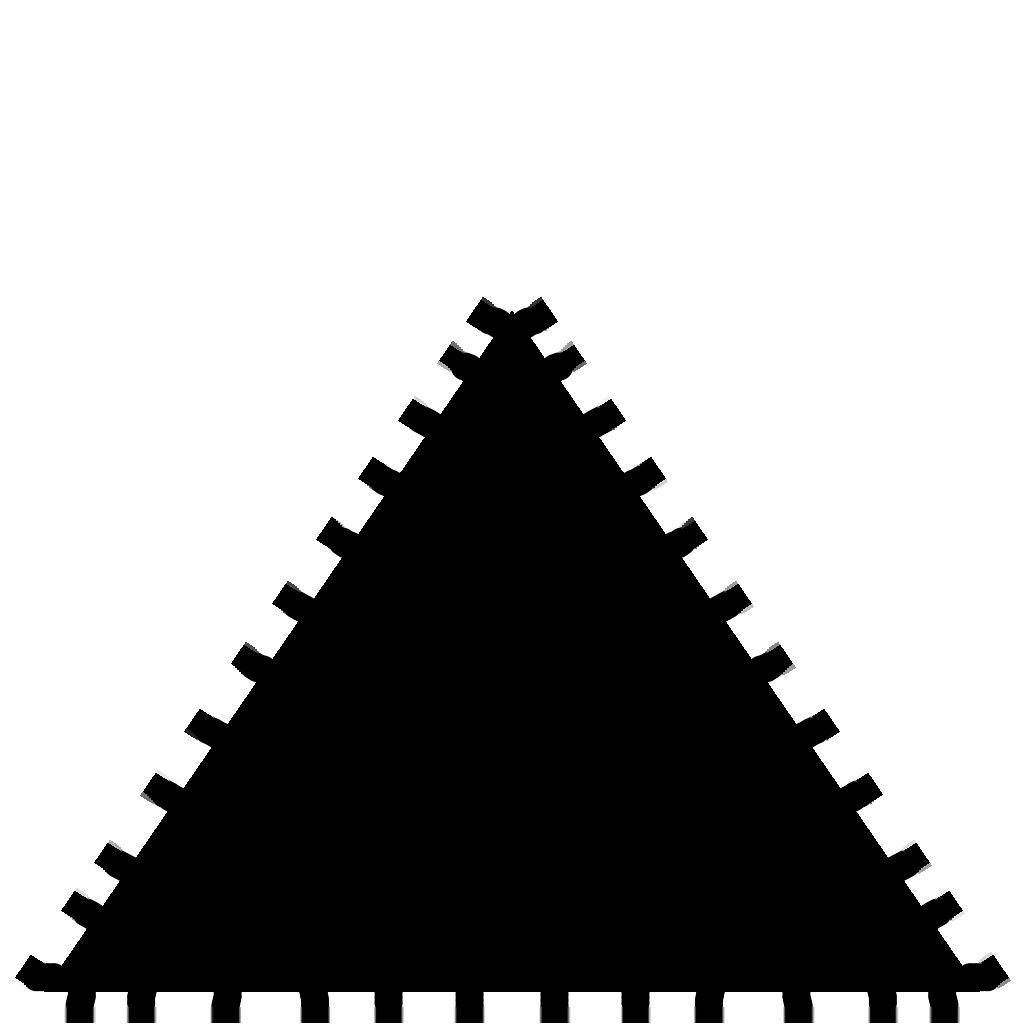
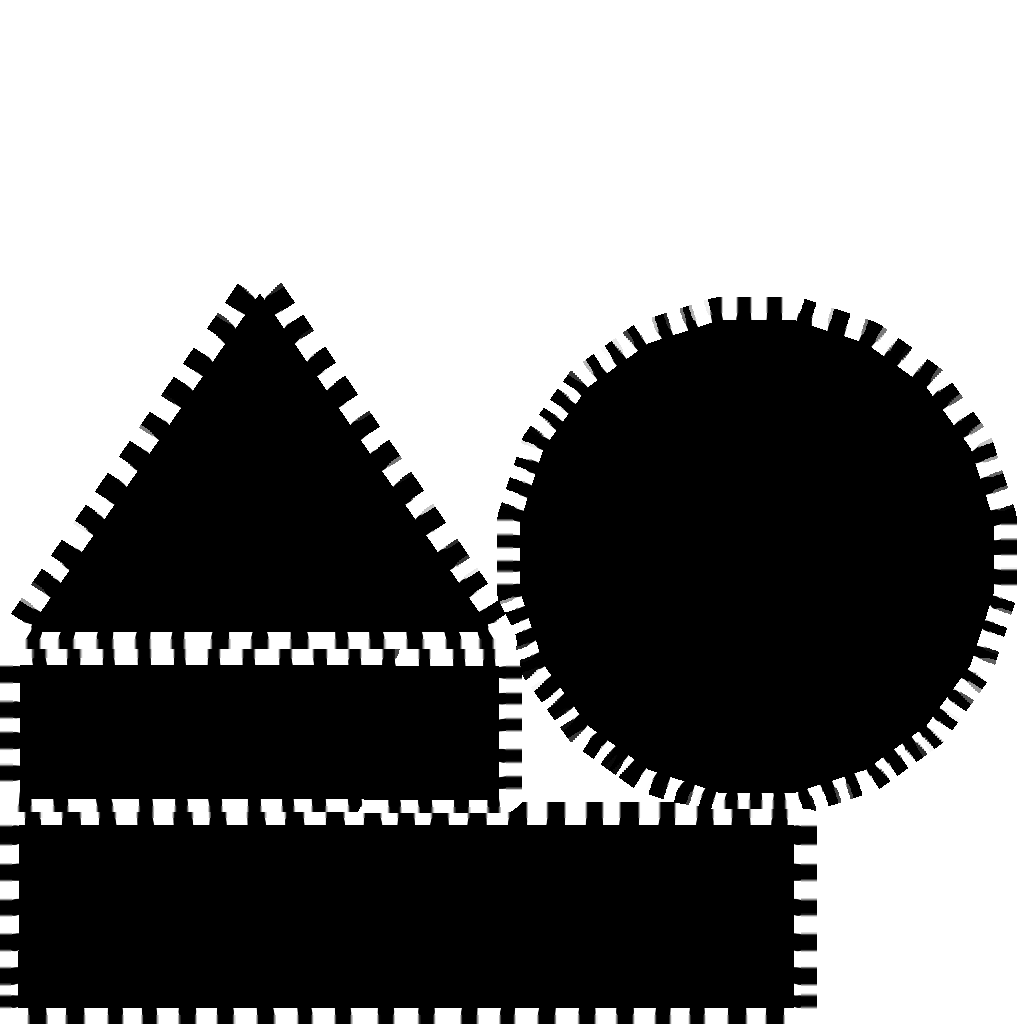
点線のモデル調整途中、カメラをほぼ正投影にした

diff --git a/Source/Components/Camera/CameraComponent.h b/Source/Components/Camera/CameraComponent.h
@@ -34,6 +34,7 @@ public:
     const DirectX::XMFLOAT4X4& GetProjection()
     {
         using namespace DirectX;
+        //XMStoreFloat4x4(&projection, XMMatrixOrthographicLH(15 * aspect, 15, nearZ, farZ));
         XMStoreFloat4x4(&projection, XMMatrixPerspectiveFovLH(fovY, aspect, nearZ, farZ));
         return projection;
     }
@@ -53,7 +54,8 @@ public:
     }
 
 protected:
-    float fovY = DirectX::XMConvertToRadians(60.0f);
+    //float fovY = DirectX::XMConvertToRadians(60.0f);
+    float fovY = DirectX::XMConvertToRadians(0.0f);
     float aspect = 1280.f / 720.f;
     float nearZ = 0.1f;
     float farZ = 1000.f;

diff --git a/Source/Game/OdenGame/OdenManagers/OdenSlotManager.cpp b/Source/Game/OdenGame/OdenManagers/OdenSlotManager.cpp
@@ -134,7 +134,7 @@ void OdenSlotManager::UpdateBeat(float deltaTime)
         {
             if (auto r = beatReact.lock())
             {
-                r->OnBeat(beat.isStrong);
+             //   r->OnBeat(beat.isStrong);
             }
         }
     }
@@ -291,7 +291,7 @@ void OdenSlotManager::BuildIngredientBag()
             //{ "Egg", 1},
             //{ "Tsukune", 1 },
             { "Chikuwa", 1 },
-            //{ "Konnyaku", 1 },
+            { "Konnyaku", 1 },
             //{ "Hanpen", 1 },
             //{ "Cake", 1 },
             //{ "Donut", 1 },
